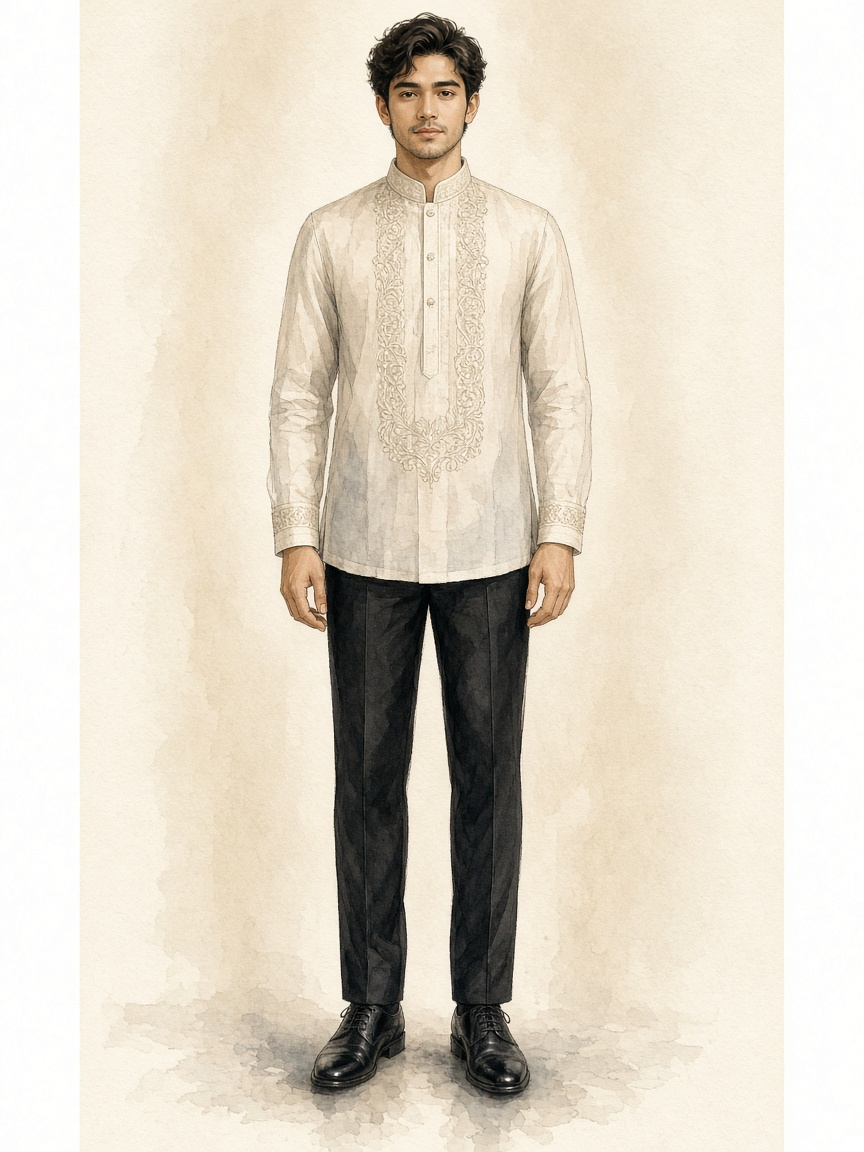
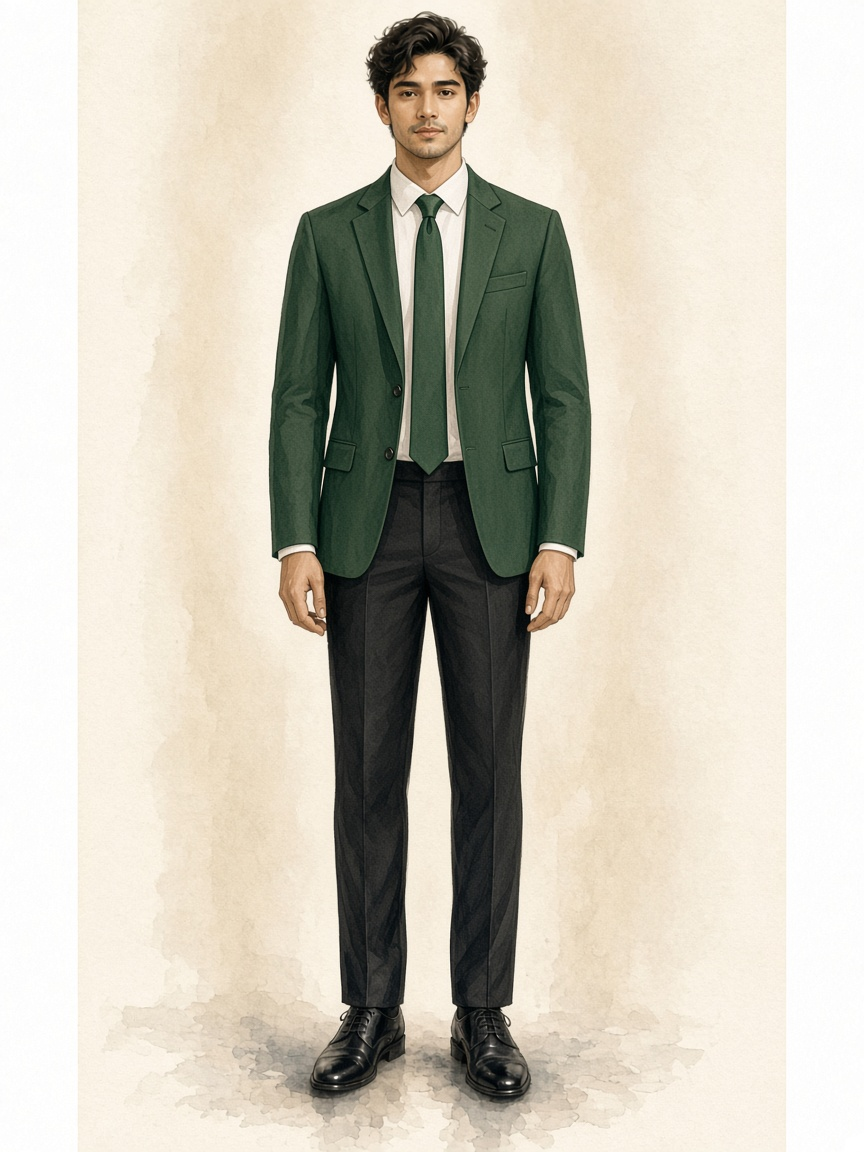
Update formal men's sample and add pants and jeans to the women's avoid guide.

diff --git a/index.html b/index.html
@@ -277,8 +277,8 @@
                   <figcaption><strong>Formal · Women</strong> Long gown or dress with sleeves, a modest neckline, and closed shoes</figcaption>
                 </figure>
                 <figure class="attire-model">
-                  <img src="assets/attire/do-formal-men.jpg" alt="Man in a barong, slacks, and dress shoes" width="768" height="1024" loading="lazy" />
-                  <figcaption><strong>Formal · Men</strong> Barong, suit, or coat and tie with slacks and dress shoes</figcaption>
+                  <img src="assets/attire/do-formal-men.jpg?v=2" alt="Man in a green suit, white polo, green necktie, black pants, and black shoes" width="768" height="1024" loading="lazy" />
+                  <figcaption><strong>Formal · Men</strong> Green suit, white polo, green necktie, black pants, and black shoes</figcaption>
                 </figure>
                 <figure class="attire-model">
                   <img src="assets/attire/do-semiformal-women.jpg" alt="Woman in a knee-length dress with sleeves and closed shoes" width="768" height="1024" loading="lazy" />
@@ -324,6 +324,14 @@
                     <figure class="attire-rail__slide" data-attire-slide>
                       <img src="assets/attire/dont-women-slippers.jpg" alt="Example of a dress worn with slippers" width="768" height="1024" />
                       <figcaption>Slippers</figcaption>
+                    </figure>
+                    <figure class="attire-rail__slide" data-attire-slide>
+                      <img src="assets/attire/dont-women-pants.jpg" alt="Example of a woman wearing pants" width="768" height="1024" />
+                      <figcaption>Pants</figcaption>
+                    </figure>
+                    <figure class="attire-rail__slide" data-attire-slide>
+                      <img src="assets/attire/dont-women-jeans.jpg" alt="Example of a woman wearing jeans and maong" width="768" height="1024" />
+                      <figcaption>Jeans and maong</figcaption>
                     </figure>
                   </div>
                   <div class="attire-rail__nav">
